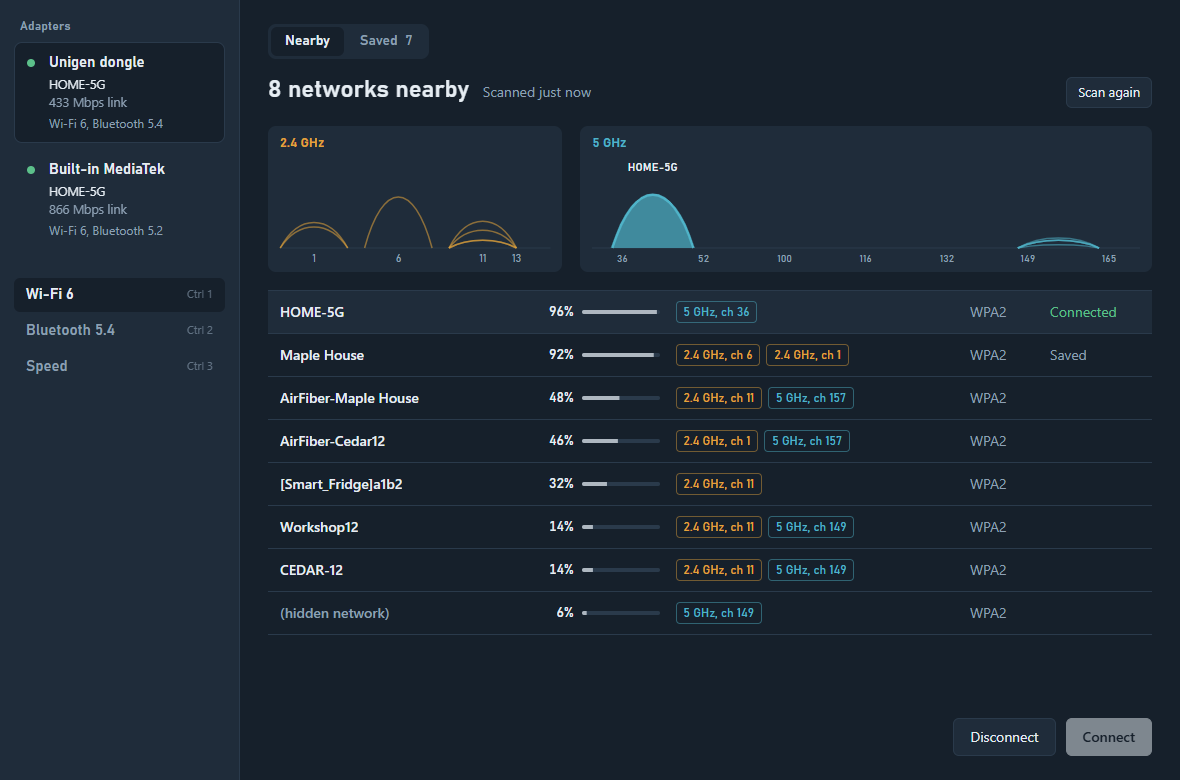
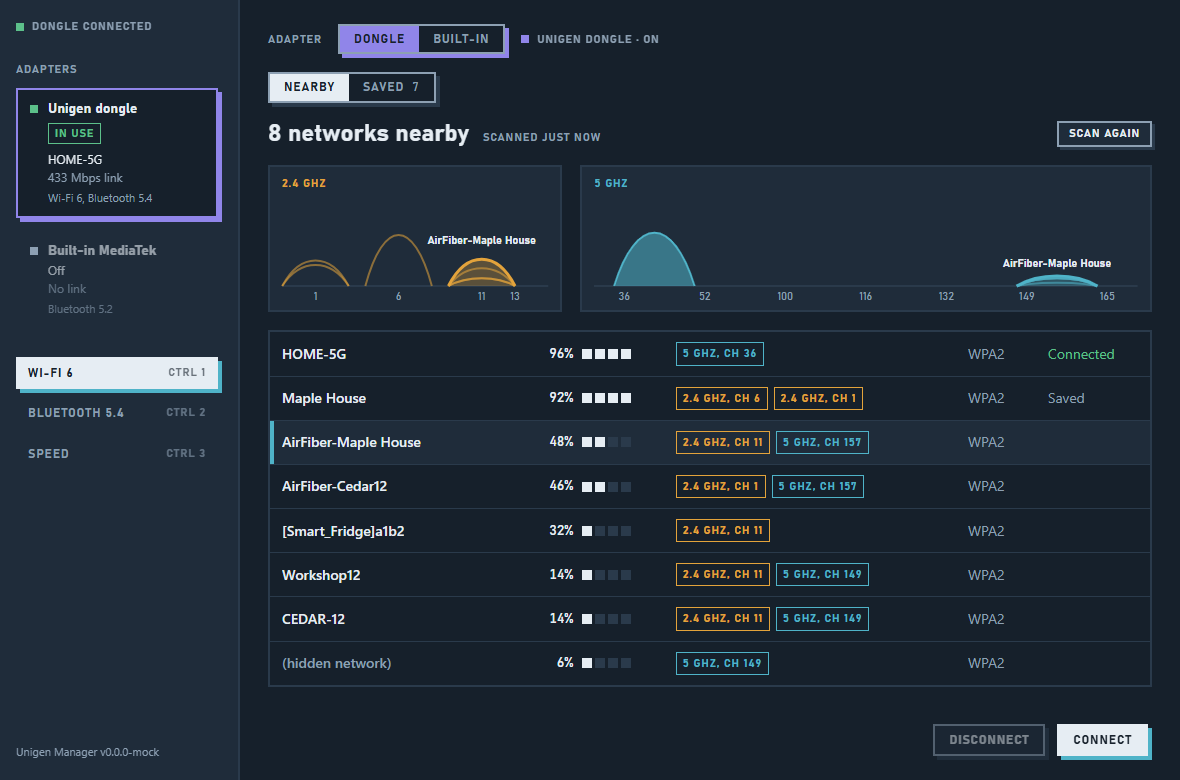
docs: describe the new look and the faster Bluetooth switching; refresh screenshots from the mock

diff --git a/README.md b/README.md
@@ -12,7 +12,7 @@
 ![Python 3.10](https://img.shields.io/badge/Python-3.10-0E151D?style=flat-square&logo=python&logoColor=4FB3C8)
 ![pywebview](https://img.shields.io/badge/UI-pywebview%20%2B%20WebView2-0E151D?style=flat-square)
 ![anime.js](https://img.shields.io/badge/motion-anime.js%204-0E151D?style=flat-square)
-![Tests](https://img.shields.io/badge/tests-336%20passing-5CC08A?style=flat-square)
+![Tests](https://img.shields.io/badge/tests-404%20passing-5CC08A?style=flat-square)
 
 <a href="https://github.com/ApurvDas/unigen-manager/releases/latest/download/UnigenManager.exe"><img src="https://img.shields.io/badge/Download-UnigenManager.exe%20%C2%B7%2033%20MB-4FB3C8?style=for-the-badge&logo=windows&logoColor=white" alt="Download UnigenManager.exe" height="44"></a>
 
@@ -97,13 +97,18 @@ Older versions and checksums are on the [releases page](https://github.com/Apurv
   - **Bluetooth, 4 steps:** disconnecting your devices, turning off the old radio, starting the new radio, reconnecting your devices. A step with nothing to do (no device connected) shows dimmed and is skipped.
   - **A block is** empty, current (hatched and filling, but never to the end before the step really ends), done, skipped or failed. When a move finishes, the blocks flash green and fold into one line (*Bluetooth moved to the Unigen dongle*) that fades away. If a step fails, its block turns red and shakes, the bar stays with the message, and **Try again** repeats the move.
   - **A move started by the other window or by the watchdog** (after a re-plug) shows its bar too. Pressing a switch while a move runs just says *Already moving Bluetooth · 2/4* on the bar. While Bluetooth moves, Connect, Disconnect, Pair, Remove and the Bluetooth on/off switch are disabled.
-  - **Look and motion:** square corners, a 2px outline and a hard shadow in the chosen adapter's colour that the switch sinks onto when pressed. With Windows' **Show animations** off, the sweep, hatch and shake are replaced by instant changes and fades.
-- **Bluetooth moves in the background.** Windows runs one Bluetooth radio at a time, so the old one is turned off in Device Manager. That is usually quick, but Windows can take up to a minute while its audio engine lets go of a paired speaker or headphones. To avoid that, the app first disconnects any connected earbuds or speakers (Windows refuses to turn a radio off while audio is playing through it), turns the old radio off, then tries to reconnect them on the new one (a device not paired there shows **Re-pair**). The app tells you when Bluetooth has moved. Wi-Fi is not touched.
+  - **Look and motion:** the same [design as the rest of the app](#one-design-for-the-whole-app). With Windows' **Show animations** off, the sweep, hatch and shake are replaced by instant changes and fades.
+- **Bluetooth moves in the background.** Windows runs one Bluetooth radio at a time, so the old one is turned off in Device Manager. That is slow while the audio drivers of a connected speaker or headphones are still loaded, because Windows tears them down first (it took 42 to 51 seconds in the app's own log). So the app unloads them itself first, then turns the old radio off, then reconnects the device on the new one (a device not paired there shows **Re-pair**). The app tells you when Bluetooth has moved. Wi-Fi is not touched.
+- **Faster Bluetooth switching:**
+  - **Audio goes first.** A connected audio device (headphones, speaker or other audio, or anything with a Bluetooth audio driver loaded) has its audio services switched off straight away, which disconnects it and unloads its drivers in one go. Before, the app asked the audio driver to disconnect and waited up to 10 seconds, and the old radio was still slow to turn off. Other devices (controllers, mice) keep the audio-driver disconnect. If the audio-services route fails, the device falls back to it.
+  - **No fixed pauses.** The 2-second wait before reconnecting is gone (the move already waits until Windows has the new radio), and the short pause before the old radio goes off is 1 second and only happens when a device was taken off.
+  - **A re-plug restores faster.** After the dongle comes back, the watchdog starts the Bluetooth restore as soon as the Wi-Fi restore lets go of the lock, instead of at its next check a few seconds later.
+  - **Every step is timed in `app.log`**, for example `bt step 2/4 Turning off the Built-in MediaTek radio: 31.4 s`, with the total at the end and how each device dropped, so the gain shows on your own PC. The safety rules are unchanged: one switch at a time, no extra retries of a radio's turn-off, and a refusal from Windows ends the wait.
 - **Bluetooth fails fast and says why:**
-  - A device that still reads connected 10 seconds after it was disconnected also gets its audio services switched off (they come back on when it reconnects), which usually makes Windows let go of it.
+  - A device that was asked to disconnect through its audio driver and still reads connected 10 seconds later also gets its audio services switched off (they come back on when it reconnects), which usually makes Windows let go of it.
   - If Windows still refuses to turn the old radio off, the app sees the refusal in the System event log (Kernel-PnP event 225, read-only, looked at most every 2 seconds) and gives up in about 10 to 20 seconds instead of 45. It never asks Windows to turn that radio off a third time: poking a radio Windows is tearing down has hung the dongle's driver before. Stop the audio or disconnect the earbuds and switch again.
   - A move counts as done only once Windows has the new radio, so Connect works right after the *moved* message. Connect also waits up to 8 seconds for the radio to appear.
-  - `app.log` records each device's disconnect (which way was used, and whether it dropped), so a refusal explains itself.
+  - `app.log` records each device's disconnect (which way was used, how long it took and whether it dropped), so a refusal explains itself.
 - **One switch at a time:** the dongle's Wi-Fi and Bluetooth are one USB device, and changing one while the other is being turned off has hung its driver. So the two switches share a lock: a second click waits until the first is done.
 - **It follows the dongle:** unplug it and the built-in adapter turns back on for both Wi-Fi and Bluetooth; plug it in again and each switch that was set to the dongle goes back to it (one set to Built-in stays). A tray notification tells you.
 - **It notices a crashed dongle:** if the dongle stops responding (Windows still lists it, but it has no Wi-Fi), the app moves to the built-in adapter and asks you to unplug the dongle and plug it back in. A switch never waits on a device that has stopped answering.
@@ -116,7 +121,14 @@ Older versions and checksums are on the [releases page](https://github.com/Apurv
 </tr>
 </table>
 
-Each adapter shows its own standards, read from the hardware: **Wi-Fi 6**, **Bluetooth 5.4** for the Unigen dongle and **5.2** for the MediaTek card. The motion is built with anime.js and turns into simple fades when Windows' **Show animations** setting is off. The switches and their progress bars are square, outlined and caps-labelled; the rest of the app keeps its softer look.
+Each adapter shows its own standards, read from the hardware: **Wi-Fi 6**, **Bluetooth 5.4** for the Unigen dongle and **5.2** for the MediaTek card. The motion is built with anime.js and turns into simple fades when Windows' **Show animations** setting is off.
+
+#### One design for the whole app
+The main window and the tray widget share one brutalist look, so nothing clashes:
+- **Square and outlined:** no rounded corners anywhere (only chart curves are curved), a 2px outline on every panel and 1px rules inside lists.
+- **Depth means "you can press this":** buttons, switches and the highlighted menu items have a hard offset shadow; panels and charts have none. Pressing sinks a control onto its shadow and it springs back. It is one motion for everything pressable, in the same place as the progress bar's blocks.
+- **Colour has a meaning:** the dongle and the built-in radio keep their own colours (on the switch, the selected adapter card and the charts), the main action is white with a cyan shadow, green, amber and red are states, and everything else is grey.
+- **Labels are caps in a condensed face, text stays plain:** five type sizes in all. The Nearby | Saved tabs are the same control as the Adapter switch. Signal is shown as four square blocks, the Bluetooth search as the same hatched strip as the progress bar.
 
 <div align="center">
 
@@ -220,7 +232,7 @@ Then open:
 
 ```powershell
 py -3.10 -m pip install -r requirements-dev.txt
-py -3.10 -m pytest                 # 336 unit, contract and UI tests (UI tests drive the installed Microsoft Edge)
+py -3.10 -m pytest                 # 404 unit, contract and UI tests (UI tests drive the installed Microsoft Edge)
 py -3.10 -m pytest -m hardware     # read-only checks against the real adapters (changes nothing)
 ```
 
